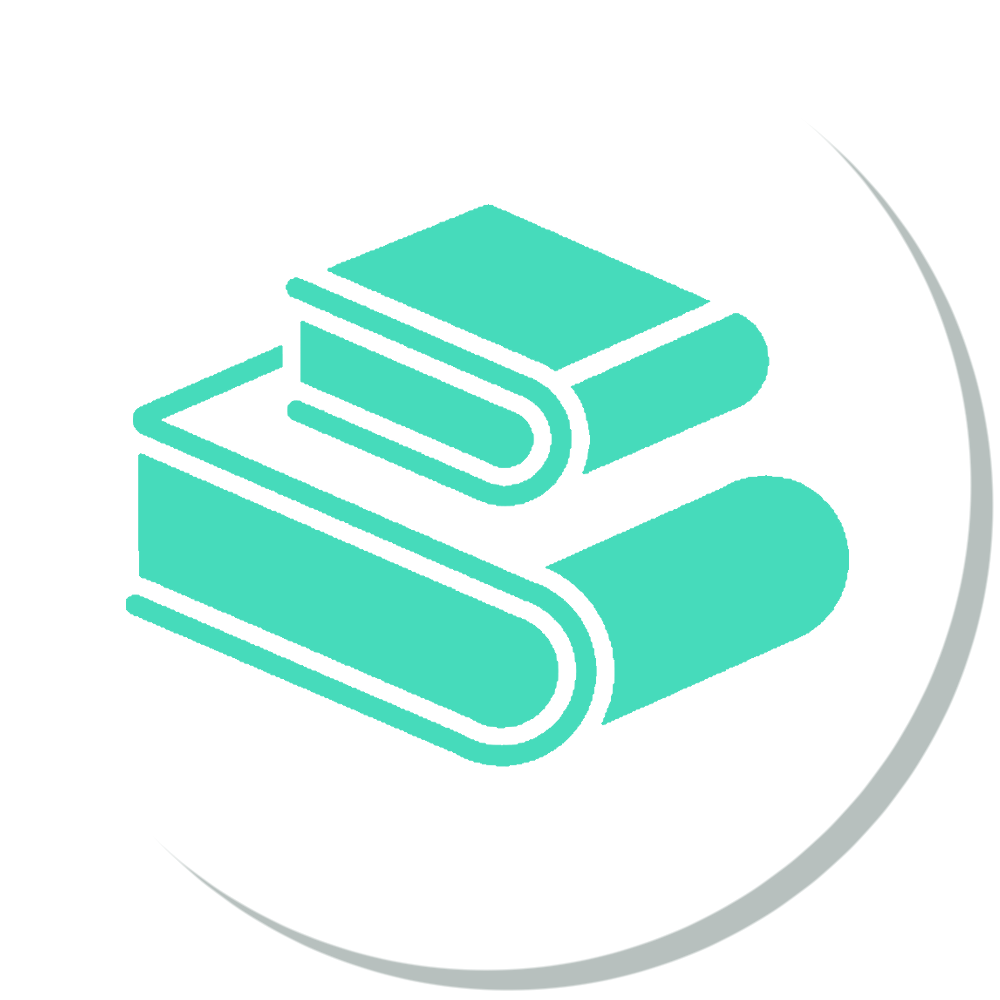
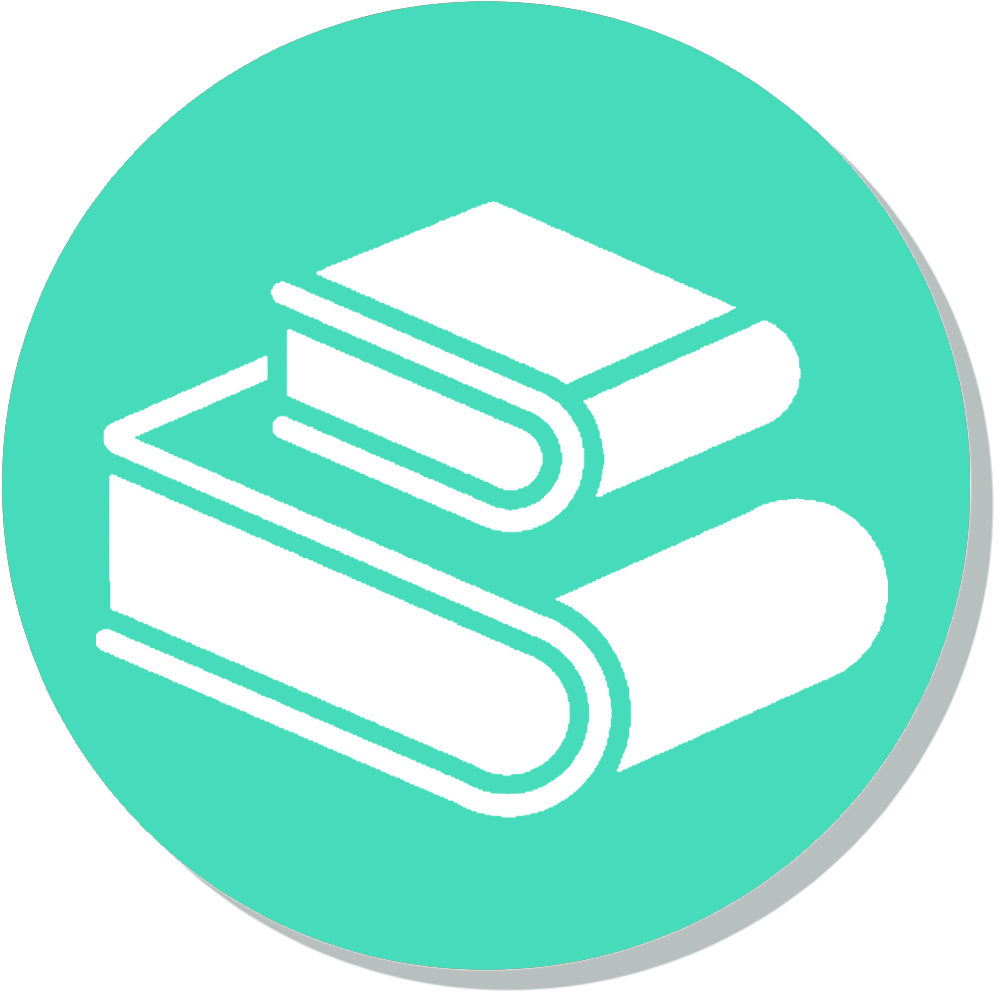
Layout changes...

diff --git a/lib/scripts/layout/pom_timer/pom_timer_main_idle.dart b/lib/scripts/layout/pom_timer/pom_timer_main_idle.dart
@@ -122,7 +122,7 @@ class _PomTimerIdleWidgetState extends State<PomTimerIdleWidget>
                           ),
 
                           WidgetPointer(
-                            value: 43,
+                            value: 42.7,
                             offset: -50 * gaugeTween.value,
                             child: GestureDetector(
                               onTapDown: (details) =>
@@ -131,17 +131,22 @@ class _PomTimerIdleWidgetState extends State<PomTimerIdleWidget>
                                 '-focus-',
                                 style: TextStyle(
                                   fontFamily: 'Fredoka',
-                                  fontWeight: FontWeight.w500,
+                                  fontWeight: FontWeight.w700,
                                   fontSize: 25 * gaugeTween.value,
                                   color: const Color.fromARGB(
-                                    212,
+                                    221,
                                     255,
                                     255,
                                     255,
                                   ),
                                   shadows: [
                                     Shadow(
-                                      color: const Color.fromARGB(106, 0, 0, 0),
+                                      color: const Color.fromARGB(
+                                        255,
+                                        42,
+                                        148,
+                                        148,
+                                      ),
                                       offset: Offset(2, 2),
                                     ),
                                   ],
@@ -210,6 +215,66 @@ class _PomTimerIdleWidgetState extends State<PomTimerIdleWidget>
                               ),
                             ),
                           ),
+                          /* 
+                          WidgetPointer(
+                            value: 0,
+                            offset: -50 * gaugeTween.value,
+                            child: Transform.translate(
+                              offset: Offset(10, 10),
+                              child: GestureDetector(
+                                onTapDown: (details) =>
+                                    gaugeAnimController.forward(),
+                                child: IconButton(
+                                  onPressed: () {
+                                    if (timeSetWorkMinutes > 1) {
+                                      timeSetWorkMinutes--;
+                                      setState(() {});
+                                    }
+                                  },
+                                  icon: Icon(
+                                    Icons.remove_circle_rounded,
+                                    color: Colors.white,
+                                    shadows: [
+                                      const Shadow(
+                                        color: Colors.black12,
+                                        offset: Offset(2, 2),
+                                      ),
+                                    ],
+                                  ),
+                                ),
+                              ),
+                            ),
+                          ),
+
+                          WidgetPointer(
+                            value: 90,
+                            offset: -50 * gaugeTween.value,
+                            child: Transform.translate(
+                              offset: Offset(-10, 10),
+                              child: GestureDetector(
+                                onTapDown: (details) =>
+                                    gaugeAnimController.forward(),
+                                child: IconButton(
+                                  onPressed: () {
+                                    if (timeSetWorkMinutes < 90) {
+                                      timeSetWorkMinutes++;
+                                      setState(() {});
+                                    }
+                                  },
+                                  icon: Icon(
+                                    Icons.add_circle_rounded,
+                                    color: Colors.white,
+                                    shadows: [
+                                      const Shadow(
+                                        color: Colors.black12,
+                                        offset: Offset(2, 2),
+                                      ),
+                                    ],
+                                  ),
+                                ),
+                              ),
+                            ),
+                          ), */
                         ],
                       ),
 
@@ -272,6 +337,41 @@ class _PomTimerIdleWidgetState extends State<PomTimerIdleWidget>
                               ),
                             ),
                           ),
+                          WidgetPointer(
+                            value: 15.35,
+                            offset: -50 * (1.2 - gaugeTween.value),
+                            child: GestureDetector(
+                              onTapDown: (details) =>
+                                  gaugeAnimController.reverse(),
+                              child: IgnorePointer(
+                                child: Text(
+                                  '-break-',
+                                  style: TextStyle(
+                                    fontFamily: 'Fredoka',
+                                    fontWeight: FontWeight.w700,
+                                    fontSize: 25 * (1.2 - gaugeTween.value),
+                                    color: const Color.fromARGB(
+                                      221,
+                                      255,
+                                      255,
+                                      255,
+                                    ),
+                                    shadows: [
+                                      Shadow(
+                                        color: const Color.fromARGB(
+                                          255,
+                                          163,
+                                          89,
+                                          32,
+                                        ),
+                                        offset: Offset(2, 2),
+                                      ),
+                                    ],
+                                  ),
+                                ),
+                              ),
+                            ),
+                          ),
 
                           WidgetPointer(
                             enableDragging: true,
@@ -291,43 +391,7 @@ class _PomTimerIdleWidgetState extends State<PomTimerIdleWidget>
                                 onTapDown: (details) =>
                                     gaugeAnimController.reverse(),
                                 child: Image.asset(
-                                  assetManager.flutterAssetPaths['pT_WP']!,
-                                ),
-                              ),
-                            ),
-                          ),
-
-                          WidgetPointer(
-                            value: 15.35,
-                            offset: -50 * (1.2 - gaugeTween.value),
-                            child: GestureDetector(
-                              onTapDown: (details) =>
-                                  gaugeAnimController.reverse(),
-                              child: IgnorePointer(
-                                child: Text(
-                                  '-break-',
-                                  style: TextStyle(
-                                    fontFamily: 'Fredoka',
-                                    fontWeight: FontWeight.w500,
-                                    fontSize: 25 * (1.2 - gaugeTween.value),
-                                    color: const Color.fromARGB(
-                                      212,
-                                      255,
-                                      255,
-                                      255,
-                                    ),
-                                    shadows: [
-                                      Shadow(
-                                        color: const Color.fromARGB(
-                                          106,
-                                          0,
-                                          0,
-                                          0,
-                                        ),
-                                        offset: Offset(2, 2),
-                                      ),
-                                    ],
-                                  ),
+                                  assetManager.flutterAssetPaths['pT_BP']!,
                                 ),
                               ),
                             ),

diff --git a/lib/scripts/layout/ui/prog_system_display.dart b/lib/scripts/layout/ui/prog_system_display.dart
@@ -122,7 +122,7 @@ class _ProgSystemDisplayState extends State<ProgSystemDisplay> {
                                 RangePointer(
                                   value: progSystem.oshiriRemainder.value
                                       .toDouble(),
-                                  width: 0.2,
+                                  width: 0.18,
                                   color: const Color.fromARGB(
                                     197,
                                     255,
@@ -142,9 +142,10 @@ class _ProgSystemDisplayState extends State<ProgSystemDisplay> {
                         );
                       },
                     ),
-                    Center(
+                    Align(
+                      alignment: Alignment.center,
                       child: Padding(
-                        padding: EdgeInsetsGeometry.only(bottom: 30),
+                        padding: EdgeInsetsGeometry.only(bottom: 20),
                         child: Text(
                           'Level',
                           style: TextStyle(
@@ -166,7 +167,7 @@ class _ProgSystemDisplayState extends State<ProgSystemDisplay> {
                     /// OSHIRILEVEL TEXT
                     Center(
                       child: Padding(
-                        padding: EdgeInsetsGeometry.only(top: 5),
+                        padding: EdgeInsetsGeometry.only(top: 15),
                         child: ListenableBuilder(
                           listenable: progSystem.oshiriLevel,
                           builder: (context, child) {
@@ -192,14 +193,14 @@ class _ProgSystemDisplayState extends State<ProgSystemDisplay> {
 
                     Center(
                       child: Padding(
-                        padding: EdgeInsetsGeometry.fromLTRB(2, 50, 0, 0),
+                        padding: EdgeInsetsGeometry.only(bottom: 30),
                         child: Text(
                           '*',
                           style: TextStyle(
                             fontFamily: 'Nunito',
                             fontWeight: FontWeight.bold,
                             fontSize: 24,
-                            color: const Color.fromARGB(255, 169, 105, 62),
+                            color: const Color.fromARGB(255, 255, 255, 255),
                             shadows: [],
                           ),
                         ),
@@ -276,7 +277,10 @@ class _ProgSystemDisplayState extends State<ProgSystemDisplay> {
                     child: SizedBox(
                       height: 30,
                       width: 30,
-                      child: Icon(Icons.timeline_rounded),
+                      child: Icon(
+                        Icons.today_rounded,
+                        color: const Color.fromARGB(255, 31, 150, 108),
+                      ),
                     ),
                   ),
                   Container(

diff --git a/lib/scripts/layout/ui/menu_dial.dart b/lib/scripts/layout/ui/menu_dial.dart
@@ -92,14 +92,30 @@ class _MenuDialState extends State<MenuDial> with TickerProviderStateMixin {
             mainAxisSize: MainAxisSize.min,
             children: [
               /// MAIN MENU BUTTON
-              IconButton(
-                iconSize: 40,
-                onPressed: toggleMenu,
-                icon: AnimatedIcon(
-                  color: const Color.fromARGB(255, 40, 40, 40),
-                  icon: AnimatedIcons.menu_close,
-                  progress: menuAnimation,
-                ),
+              Stack(
+                children: [
+                  Transform.translate(
+                    offset: Offset(2, 2),
+                    child: IconButton(
+                      iconSize: 40,
+                      onPressed: toggleMenu,
+                      icon: AnimatedIcon(
+                        color: const Color.fromARGB(76, 115, 115, 115),
+                        icon: AnimatedIcons.menu_close,
+                        progress: menuAnimation,
+                      ),
+                    ),
+                  ),
+                  IconButton(
+                    iconSize: 40,
+                    onPressed: toggleMenu,
+                    icon: AnimatedIcon(
+                      color: const Color.fromARGB(255, 0, 0, 0),
+                      icon: AnimatedIcons.menu_close,
+                      progress: menuAnimation,
+                    ),
+                  ),
+                ],
               ),
 
               const SizedBox(height: 20),

diff --git a/lib/scripts/layout/pom_timer/dialogs/end_pom_timer_dialog.dart b/lib/scripts/layout/pom_timer/dialogs/end_pom_timer_dialog.dart
@@ -107,16 +107,31 @@ class EndPomTimerDialog extends StatelessWidget {
             ),
 
             const SizedBox(height: 12),
-
             // Points Display
-            Text(
-              "+ $pomPoints points ⭐",
-              style: const TextStyle(
-                fontFamily: 'Nunito',
-                fontSize: 18,
-                fontWeight: FontWeight.w900,
-                color: Color(0xFF6D4C41),
-              ),
+            Column(
+              children: [
+                Text(
+                  "+ $pomPoints Pom Points",
+                  style: const TextStyle(
+                    fontFamily: 'Nunito',
+                    fontSize: 18,
+                    fontWeight: FontWeight.w900,
+                    color: Color(0xFF6D4C41),
+                  ),
+                ),
+
+                const SizedBox(height: 6),
+
+                Text(
+                  "+ $oshiriPoints Oshiri Points",
+                  style: const TextStyle(
+                    fontFamily: 'Nunito',
+                    fontSize: 16,
+                    fontWeight: FontWeight.w800,
+                    color: Color(0xFF8D6E63),
+                  ),
+                ),
+              ],
             ),
 
             const SizedBox(height: 28),

diff --git a/lib/scripts/memory/database_manager.dart b/lib/scripts/memory/database_manager.dart
@@ -27,6 +27,29 @@ class DatabaseManager {
     return dataDoc[userData];
   }
 
+  Future<Map<ShoeAchievement, bool>> acquiredShoeAchievementLoad() async {
+    final Map<ShoeAchievement, bool> shoeAchievementMap = {};
+    shoeAchievementMap.addAll({ShoeAchievement.none: true});
+
+    final acquiredShoeAchievementDoc = await userRef
+        .collection('acquired')
+        .doc('shoeAchievement')
+        .get();
+
+    final loadedShoeAchievementMap =
+        acquiredShoeAchievementDoc['acquiredBoolMap'];
+
+    for (final shoeAchievementMapEntry in loadedShoeAchievementMap.entries) {
+      final shoeAchievement = ShoeAchievement.values.byName(
+        shoeAchievementMapEntry.key,
+      );
+      final acquiredBool = shoeAchievementMapEntry.value;
+      shoeAchievementMap.addAll({shoeAchievement: acquiredBool});
+    }
+
+    return shoeAchievementMap;
+  }
+
   Future<Map<Ingridient, int>> ingridientInventoryLoad() async {
     Map<Ingridient, int> loadedInventory = {};
 

diff --git a/lib/scripts/core/prog_systems/prog_system.dart b/lib/scripts/core/prog_systems/prog_system.dart
@@ -147,6 +147,12 @@ class ProgSystem {
       milkJugs.value = jugs; // USE ONLY FOR SPLASHSCREEN (initial loading..)
   void loadOshiriPoints(int points) => oshiriPoints.value = points;
   void loadAccTotalTime(int totalTime) => accTotalTime.value = totalTime;
+  void loadAcquiredShoeAchievementBool(
+    Map<ShoeAchievement, bool> acquiredShoeAchievements,
+  ) {
+    acquiredShoeAchievementBool = acquiredShoeAchievements;
+  }
+
   void loadDayTimeSeconds(int seconds) => dayTimeSeconds.value = seconds;
   void loadDateLogMonth(int year, int month, List<DateLog> logList) {
     if (!dateLogList.containsKey(year)) {

diff --git a/lib/scripts/page/splash_page.dart b/lib/scripts/page/splash_page.dart
@@ -119,7 +119,11 @@ class _SplashPageState extends State<SplashPage> {
       );
     });
 
-    await _runStep("Loading Purin Variables...", () async {});
+    await _runStep("Loading Purin Variables...", () async {
+      _progSystem.loadAcquiredShoeAchievementBool(
+        await _databaseManager.acquiredShoeAchievementLoad(),
+      );
+    });
 
     await _runStep("Loading Calendar...", () async {
       _progSystem.dateLogList = await _databaseManager.calendarLoad();

diff --git a/lib/scripts/memory/asset_manager.dart b/lib/scripts/memory/asset_manager.dart
@@ -26,6 +26,7 @@ class AssetManager {
     'pT_FG': 'assets/images/pomTimer/pomTimer_foreground.png',
     'pT_BG': 'assets/images/pomTimer/pomTimer_background.png',
     'pT_WP': 'assets/images/pomTimer/pomTimer_work_pointer.png',
+    'pT_BP': 'assets/images/pomTimer/pomTimer_break_pointer.png',
     'pT_SB': 'assets/images/pomTimer/pomTimer_start_button.png',
 
     'pP_icon': 'assets/images/pomPoints_icon.png',
